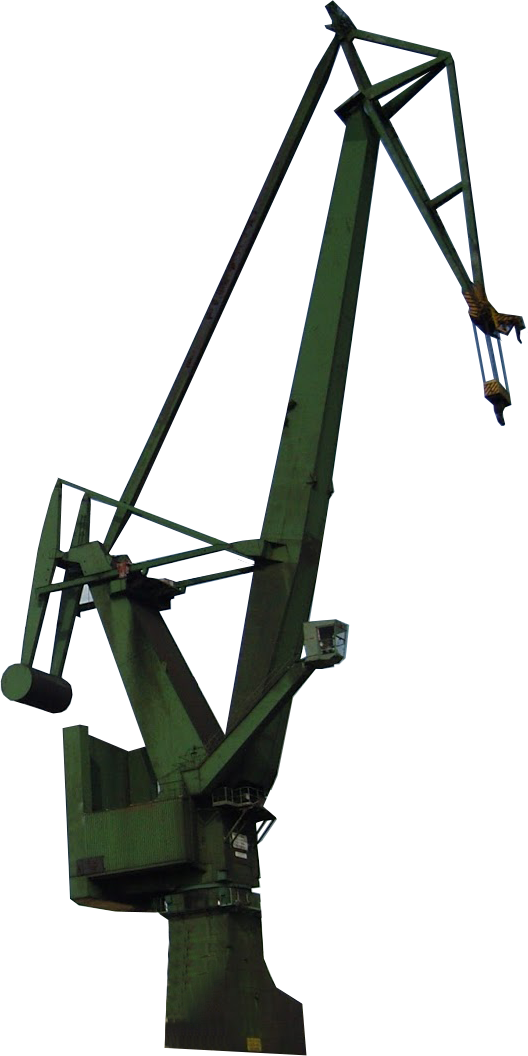
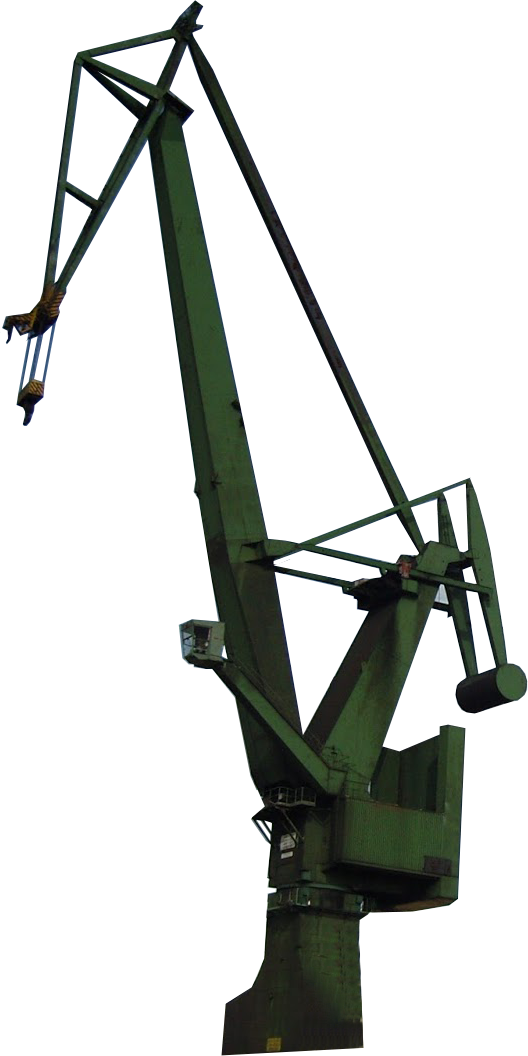
zmiany w banerze

diff --git a/img-tracking.js b/img-tracking.js
@@ -15,11 +15,15 @@ function updateImages(e) {
     var startY = ($('#index').height() / 2) - ($('#o1').height() / 2);
 
     //$('#o1').css('z-index') ;
-    $('#o1').css({ 'left': -500 + startX + (shiftX/10) + 'px', 'top': startY + (shiftY/10) + 'px' });
+    $('#o1').css({ 'left': -500 + startX + (shiftX/5) + 'px', 'top': startY + (shiftY/5) + 'px' });
     $('#o2').css({ 'left': startX + -250 + (shiftX/8) + 'px', 'top': startY + 750 + (shiftY/8) + 'px' });
-    $('#o3').css({ 'left': -500 + startX + 370 + (shiftX/6) + 'px', 'top': 400 + startY + 60 + (shiftY/6) + 'px' });
-    $('#o4').css({ 'left': startX + (shiftX/8) + 'px', 'top': startY + 50 + (shiftY/8) + 'px' });
-    $('#o5').css({ 'left': -400 + startX + (shiftX/6) + 'px', 'top': 200 + startY + -120 + (shiftY/6) + 'px' });
+    $('#o3').css({ 'left':  startX + -100 + (shiftX/6) + 'px', 'top': 500 + startY + (shiftY/6) + 'px' });
+    $('#o4').css({ 'left': -100 + startX + (shiftX/8) + 'px', 'top': startY + 50 + (shiftY/8) + 'px' });
+    $('#o5').css({ 'left': 50 + startX + (shiftX/4) + 'px', 'top': 200 + startY + -120 + (shiftY/4) + 'px' });
+    $('#o55').css({ 'left': 900 + startX + (shiftX/4) + 'px', 'top': 200 + startY + -120 + (shiftY/4) + 'px' });
+    $('#o8').css({ 'left': -1000 + startX + (shiftX/6) + 'px', 'top': 500 + startY + (shiftY/6) + 'px' });
+    $('#grad').css({ 'left': startX + -1800 + (shiftX/6) + 'px', 'top': -1200 + startY + (shiftY/6) + 'px' });
+    $('#o7').css({ 'left': startX + -600 + (shiftX/6) + 'px', 'top': startY + 200 + (shiftY/6) + 'px' });
 }
 
 $(document).ready(function($){

diff --git a/style-zajawka.css b/style-zajawka.css
@@ -51,40 +51,60 @@ body {
     color: white;
 }
 
+#o8 {
+    position: absolute;
+    z-index: -1;
+}
+
 #o5 {
     position: absolute;
-    /*left: 200px;*/
-    /*top: 100px;*/
-    width: 1000px;
-    height: 1000px;
+    width: 40%;
+    height: auto;
     z-index: -1;
+    -webkit-transform: rotate(230deg);
+}
+
+#o55 {
+    position: absolute;
+    width: 7%;
+    height: auto;
+    z-index: -1;
+    /*-webkit-transform: rotate(230deg);*/
 }
 
 #o3 {
     position: absolute;
-    /*left: 20px;*/
-    /*top: 100px;*/
     z-index: -1;
-    -webkit-transform: rotate(20deg);
+    width: 50%;
+    height: auto;
+    -webkit-transform: rotate(10deg);
 }
 
 #o4 {
     position: absolute;
-    /*left: 700px;*/
-    /*top: 20px;*/
     z-index: -1;
 }
 
 #o1 {
     position: absolute;
-    /*left: 300px;*/
-    /*top: 10px;*/
     z-index: -1;
+    -webkit-transform: rotate(-20deg);
 }
 
 #o2 {
     position: absolute;
-    /*left: 200px;*/
-    /*top: 600px;*/
     z-index: -1;
+}
+
+#grad {
+    position: absolute;
+    z-index: -1;
+    -webkit-transform: rotate(-90deg);
+}
+
+#o7 {
+    position: absolute;
+    z-index: 1;
+    /*-webkit-transform: rotate(-20deg);*/
+
 }

diff --git a/index.html b/index.html
@@ -27,11 +27,16 @@
 
 <main>
     <div class="div1" id="index">
-        <img src="images/object5.png" id="o5">
-        <img src="images/object3.png" id="o3">
-        <img src="images/object2.png" id="o2">
-        <img src="images/object1.png" id="o1">
-        <img src="images/object4.png" id="o4">
+        <img src="images/Agradient2.png" id="grad">
+        <img src="images/Afala.png" id="o8">
+        <img src="images/Aobject5.png" id="o5">
+        <img src="images/Aobject5.png" id="o55">
+        <img src="images/Aobject3.png" id="o3">
+        <img src="images/object7.png" id="o7">
+        <img src="images/Aobject2.png" id="o2">
+        <img src="images/Aobject1.png" id="o1">
+        <img src="images/Aobject4.png" id="o4">
+
 
         <div class="div2">
         </div>
